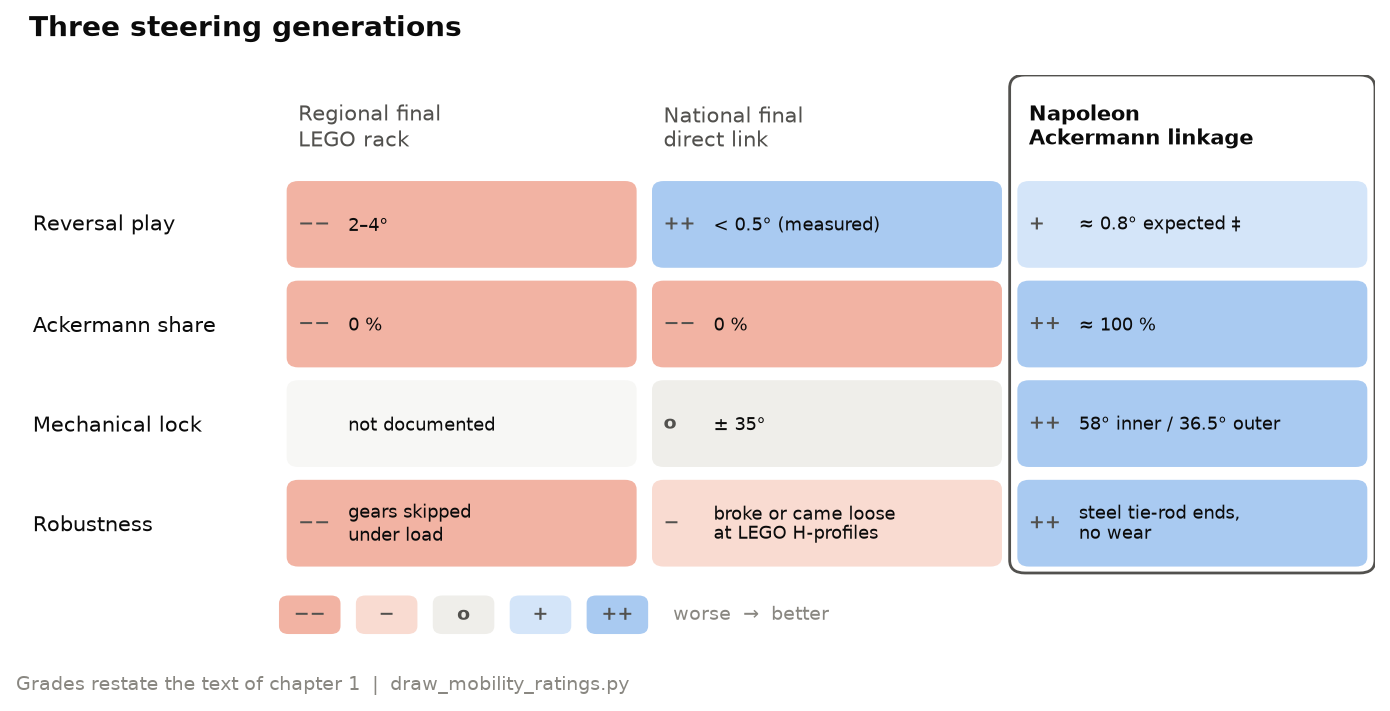
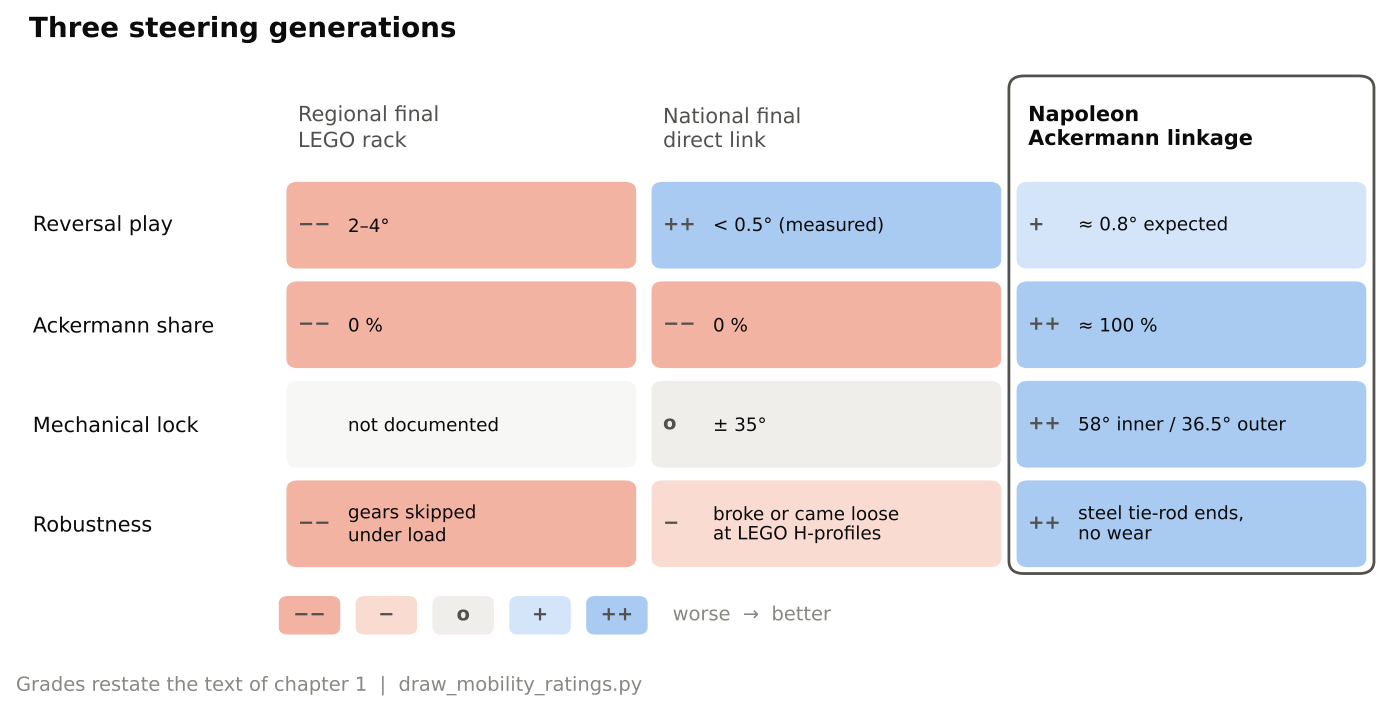
Drop the placeholder markers and the funny team photo
The journal and the steering figure no longer mark values with a dagger;
the validation status says per test what is done and what is not measured.
The team decided against a funny team photo, so its slot is removed.

diff --git a/docs/analysis/draw_mobility_ratings.py b/docs/analysis/draw_mobility_ratings.py
@@ -33,7 +33,7 @@ STEERING = {
     'highlight': 2,
     'rows': [
         ('Reversal play', [('2–4°', '--'), ('< 0.5° (measured)', '++'),
-                           ('≈ 0.8° expected ‡', '+')]),
+                           ('≈ 0.8° expected', '+')]),
         ('Ackermann share', [('0 %', '--'), ('0 %', '--'), ('≈ 100 %', '++')]),
         ('Mechanical lock', [('not documented', None), ('± 35°', 'o'),
                              ('58° inner / 36.5° outer', '++')]),

diff --git a/docs/journal/02-mobility.md b/docs/journal/02-mobility.md
@@ -15,11 +15,9 @@ about 120 design cycles for the entire previous robot.
 
 Tables that compare Napoleon with an earlier
 vehicle always list the earlier vehicle first and Napoleon last; in the PDF the
-earlier vehicles are shaded grey and Napoleon blue. Values marked ‡ are measured
-values that may still change slightly before the European Open in Zagreb; a ‡
-next to a table heading marks the whole table. The state of every test is listed
-under [Validation status](#validation-status). Unmarked values are CAD data, data
-sheets or measurements documented in chapters 2 and 3.
+earlier vehicles are shaded grey and Napoleon blue. The state of every test is
+listed under [Validation status](#validation-status). Values without a test are
+CAD data, data sheets or measurements documented in chapters 2 and 3.
 
 ## Chassis
 
@@ -357,7 +355,7 @@ is 0.28 away from it, which gives 42° and 45° per unit.
 
 Each position was approached from one side only, so the reversal play (same
 command, approached from the left and from the right) is still to be
-measured ‡.
+measured.
 
 Data: sheet `Steering_Target_Actual`, which also holds the series of the LEGO
 rack and the direct link for comparison.
@@ -603,7 +601,7 @@ A tire is cast in five steps:
 The casting mould went through one important iteration. The once-per-revolution
 oscillation of the test drives ([Circular test drives](#circular-test-drives), 3.18 Hz at 0.30 m/s against a wheel frequency of 2.98 Hz) pointed at the wheels. The moulds had been printed with an aligned seam: every layer started at the same angle, which left a small ridge across the mould wall and therefore a bump on every tire at the same position. The mould was reprinted with a random seam, and the centring of the rim was improved. With the new tires the oscillation was gone.
 
-The finished tires were measured as follows ‡:
+The finished tires were measured as follows:
 
 | Quantity | Value | Source |
 |---|---|---|
@@ -756,12 +754,12 @@ this chapter.
 | Test | Status | Section |
 |---|---|---|
 | T01/T02 masses, axle loads, CoG | done without the body (01.10.); single masses only for the wheels, the camera and its holder | [Layout](#layout-in-four-levels) |
-| T04 encoder distance calibration | effective diameter ‡ | [Tires](#tires) |
-| T05 static wheel angles and play | done (01.10.): lock, Ackermann share, linearity; reversal play ‡ | [Static wheel angles and play](#static-wheel-angles-and-play) |
-| T07 full-throttle step | top speed, $\tau$, acceleration ‡ | [Speed and acceleration](#speed-and-acceleration) |
+| T04 encoder distance calibration | done: effective diameter 30.03 mm from 10 × 2.00 m | [Tires](#tires) |
+| T05 static wheel angles and play | done (01.10.): lock, Ackermann share, linearity; reversal play not measured | [Static wheel angles and play](#static-wheel-angles-and-play) |
+| T07 full-throttle step | top speed, $\tau$, acceleration | [Speed and acceleration](#speed-and-acceleration) |
 | T08 inclined board | done (02.10.): $\mu$ lateral and longitudinal, clean and after 3 runs, sliding and tipping limits; LEGO comparison not measured | [Tires](#tires) |
-| T12/T17 tire geometry and mass | done (01.10.): diameters, runout, 9 g per wheel; straight-line deviation ‡ | [Tires](#tires) |
-| T13 servo step | steering step time ‡ | [Steering speed](#steering-speed) |
+| T12/T17 tire geometry and mass | done (01.10.): diameters, runout, 9 g per wheel; straight-line deviation | [Tires](#tires) |
+| T13 servo step | steering step time | [Steering speed](#steering-speed) |
 | T14 LiDAR field of view with and without body | – (240° from the software cut, see [Sensor mounting](#sensor-mounting)) | [Body](#body) |
 | T16 FEA C-Profile old vs. v54 | – | [Materials and manufacturing](#materials-and-manufacturing) |
 

diff --git a/README.md b/README.md
@@ -28,9 +28,9 @@ plugs directly onto the Jetson.
 
 ## Vehicle, team and videos
 
-<!-- PLACEHOLDER: the images appear once v-photos/front.jpg, v-photos/left.jpg
-and t-photos/team_funny.jpg exist; the video links are filled in video/video.md
-and here. Remove this comment afterwards. -->
+<!-- PLACEHOLDER: the images appear once v-photos/front.jpg and
+v-photos/left.jpg exist; the video links are filled in video/video.md and here.
+Remove this comment afterwards. -->
 
 | Front | Left |
 |---|---|
@@ -38,9 +38,7 @@ and here. Remove this comment afterwards. -->
 
 All six sides are in [`v-photos/`](v-photos).
 
-| Team MäcLEGO | |
-|---|---|
-| ![Official team photo](t-photos/team_photo.jpeg) | ![Funny team photo](t-photos/team_funny.jpg) |
+![Official team photo](t-photos/team_photo.jpeg)
 
 Clemens (mechanical design), Jannik (electronics and main PCB) and Finn
 (software). More in [`t-photos/`](t-photos).

diff --git a/t-photos/README.md b/t-photos/README.md
@@ -2,12 +2,7 @@
 
 Team MäcLEGO: Clemens, Jannik and Finn.
 
-<!-- PLACEHOLDER: drop the funny photo into this folder as team_funny.jpg,
-then remove this comment. -->
-
-| Official photo | Funny photo |
-|---|---|
-| ![Team MäcLEGO, official photo](team_photo.jpeg) | ![Team MäcLEGO, funny photo](team_funny.jpg) |
+![Official team photo](team_photo.jpeg)
 
 | Member | Responsibility |
 |---|---|
